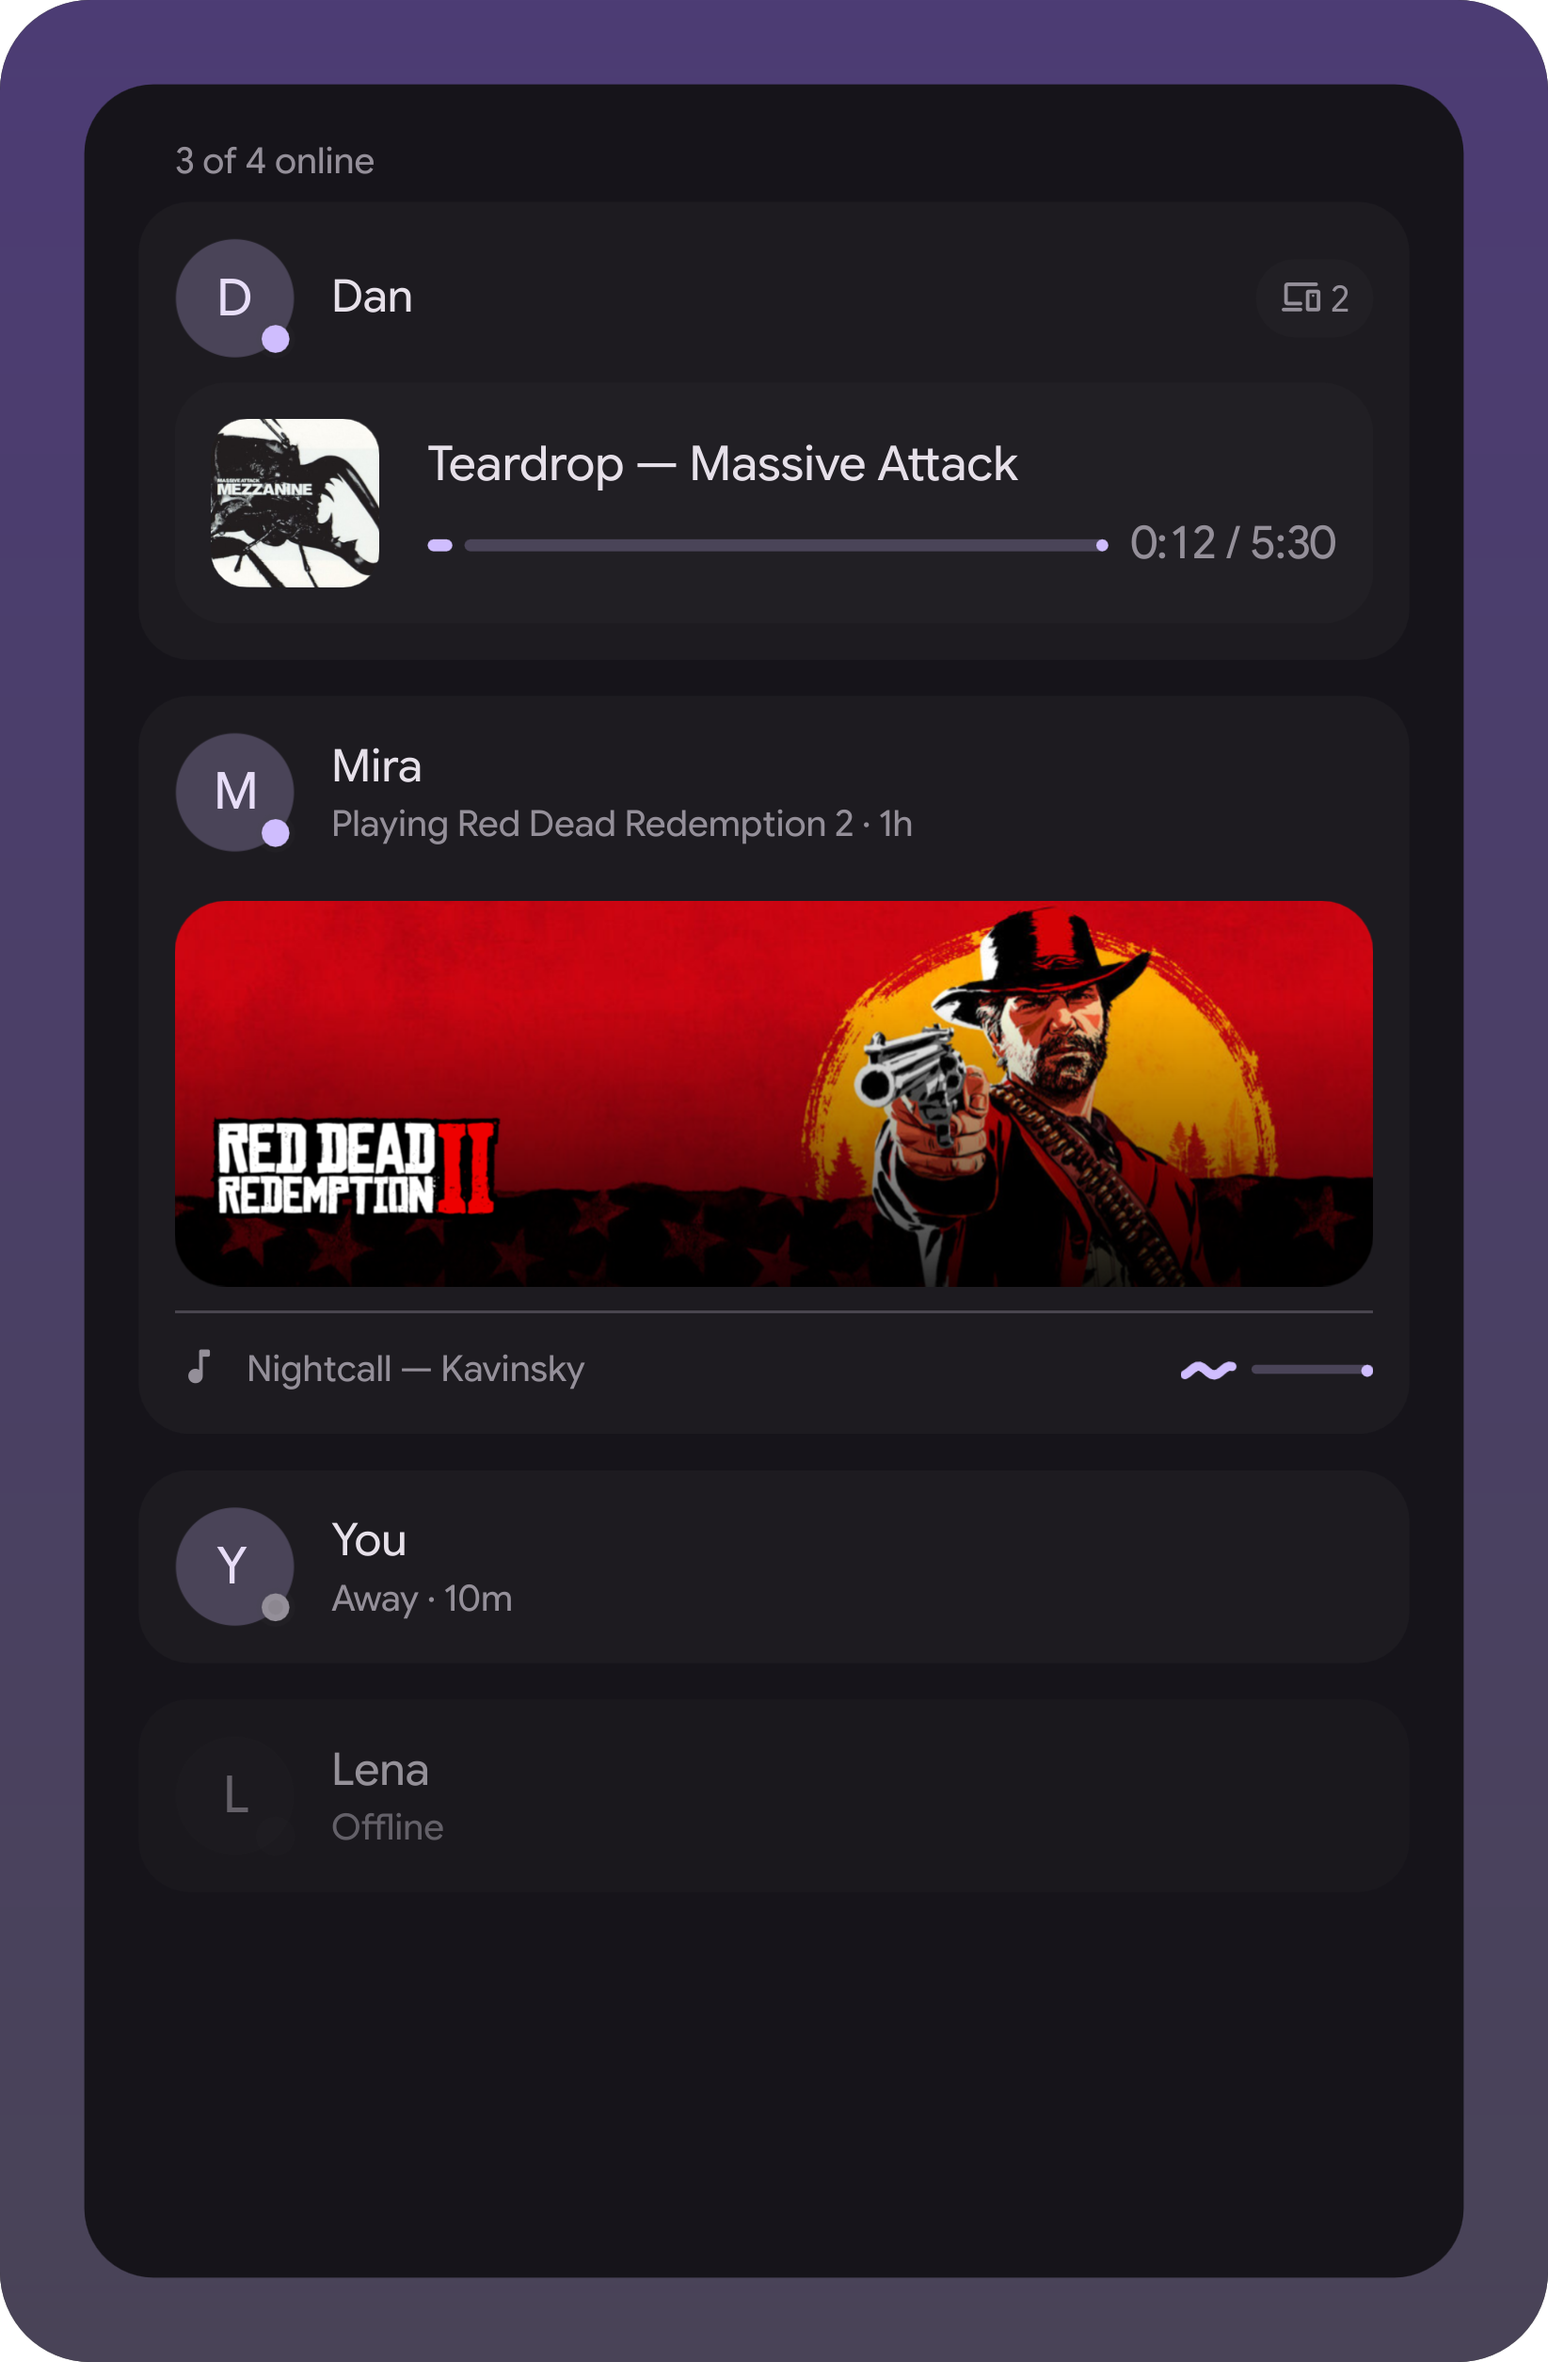
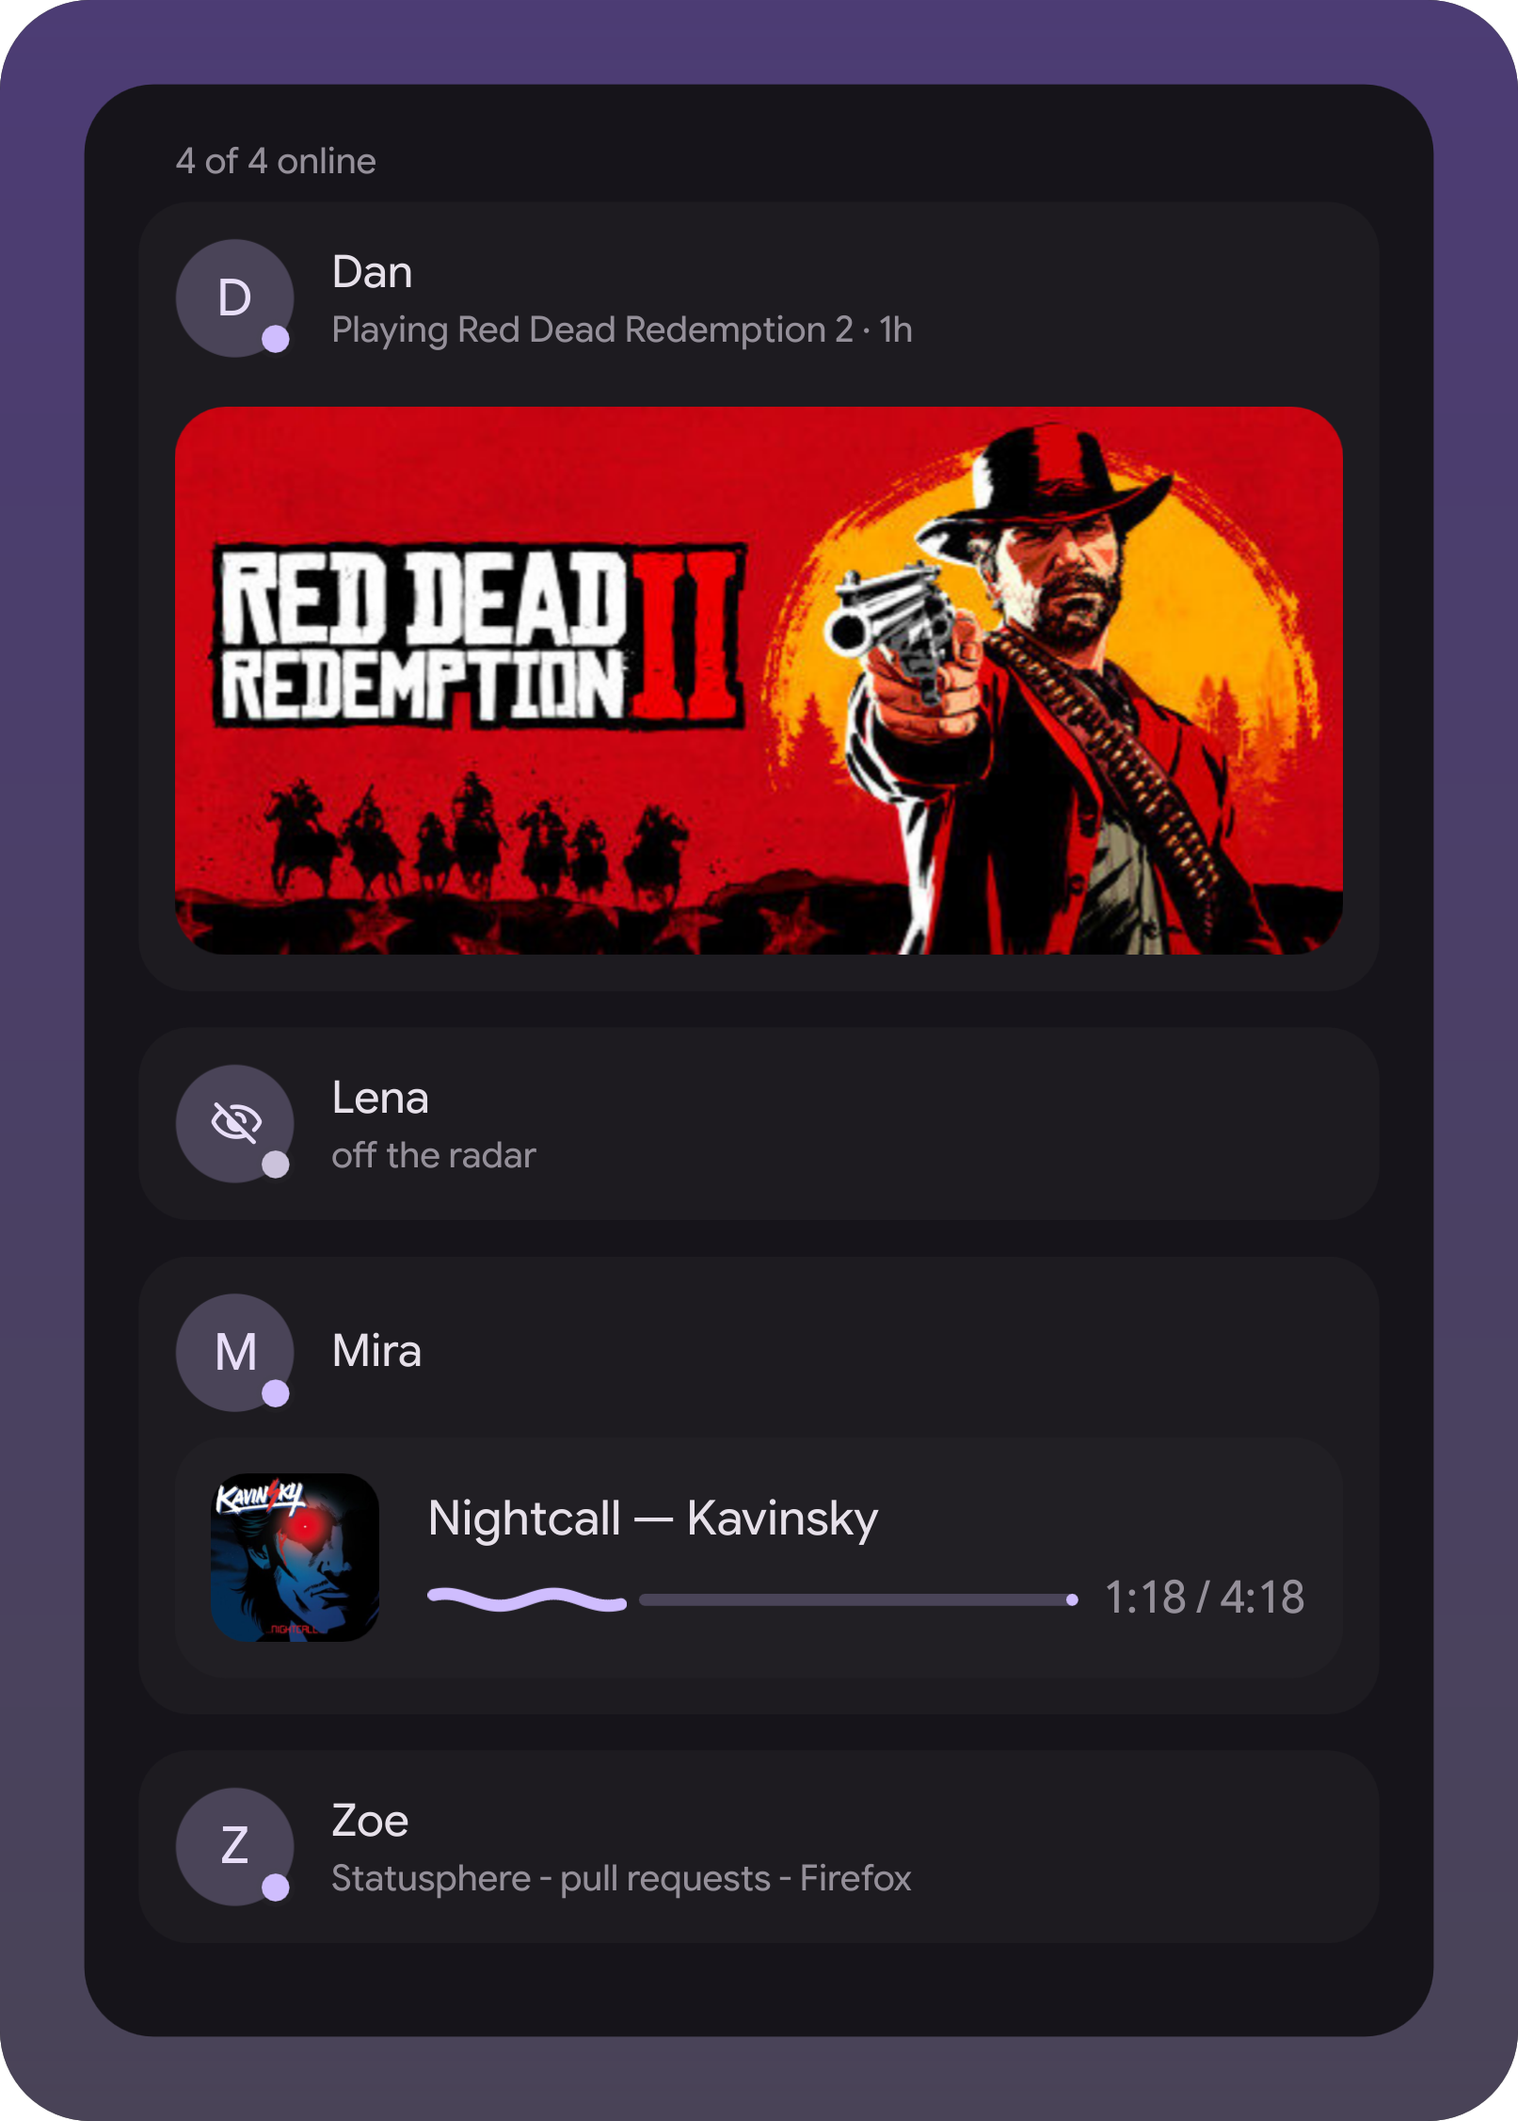
docs: readme swaps in a friend-card shot, room keeps one status each
shots.txt now renders three pictures - the plain room (DemoRoomSimple),
the settings row-pack picker, and Nyx's night owl card close up
(DemoFriendCard). Mira's row names discord next to her track, matching
the game/window/incognito friends. The settings shot's test tile reads
focused instead of the debug echo hello, and checks() follows it.

diff --git a/demo/DemoRoomSimple.qml b/demo/DemoRoomSimple.qml
@@ -1,0 +1,106 @@
+//@ probe statusphere -g 420x620 -s 1500
+/**
+ * The room at its plainest, no owner-built layouts at all: one friend playing
+ * music with the app she's in named too, one just playing a game, one with
+ * nothing more than the window she's in - the built-in row for each case,
+ * not a pack - and one gone incognito, so the room says only that she's
+ * hidden.
+ */
+import ".."
+import qs.modules.common
+import QtQuick
+import QtQuick.Layouts
+
+Item {
+    id: root
+    readonly property int now: 1780000000
+
+    function cover(file) {
+        return String(Qt.resolvedUrl(`covers/${file}`));
+    }
+
+    readonly property var room: ({
+            "members": [
+                {
+                    "account_id": "acc-mira",
+                    "device_id": "dev-mira",
+                    "device_name": "workstation",
+                    "account_name": "Mira",
+                    "last_seen": root.now,
+                    "active_app": "discord",
+                    "spotify_status": "playing",
+                    "spotify_track": "Nightcall",
+                    "spotify_artist": "Kavinsky",
+                    "spotify_position": 78,
+                    "spotify_length": 258,
+                    "spotify_art_url": root.cover("nightcall.jpg")
+                },
+                {
+                    "account_id": "acc-dan",
+                    "device_id": "dev-dan",
+                    "device_name": "tower",
+                    "account_name": "Dan",
+                    "last_seen": root.now,
+                    "game_status": "playing",
+                    "game_name": "Red Dead Redemption 2",
+                    "game_display": "Red Dead Redemption 2",
+                    "game_header_url": root.cover("rdr2-header.jpg"),
+                    "game_session_seconds": 5040
+                },
+                {
+                    "account_id": "acc-zoe",
+                    "device_id": "dev-zoe",
+                    "device_name": "laptop",
+                    "account_name": "Zoe",
+                    "last_seen": root.now,
+                    "active_window": "Statusphere - pull requests - Firefox"
+                },
+                {
+                    "account_id": "acc-lena",
+                    "device_id": "dev-lena",
+                    "device_name": "phone",
+                    "account_name": "Lena",
+                    "last_seen": root.now,
+                    "active_window": "Messages",
+                    "_incognito": true
+                }
+            ],
+            "photos": []
+        })
+
+    function checks() {
+        return [
+            {
+                "name": "the room is what was fed in",
+                "got": [Statusphere.memberCount, Statusphere.onlineCount],
+                "want": [4, 4]
+            },
+            {
+                "name": "only the music friend shows a music widget",
+                "got": ["acc-mira", "acc-dan", "acc-zoe", "acc-lena"].map(id => Statusphere.musicDevices(Statusphere.accountsById[id]).length > 0),
+                "want": [true, false, false, false]
+            },
+            {
+                "name": "only the game friend shows a game widget",
+                "got": ["acc-mira", "acc-dan", "acc-zoe", "acc-lena"].map(id => Statusphere.gameDevices(Statusphere.accountsById[id]).length > 0),
+                "want": [false, true, false, false]
+            },
+            {
+                "name": "the plain friend's status line names her window, not a bare Online",
+                "got": Statusphere.statusFor(Statusphere.accountsById["acc-zoe"]),
+                "want": "Statusphere - pull requests - Firefox"
+            },
+            {
+                "name": "an incognito friend says only that she's hidden, window and all",
+                "got": [Statusphere.hiddenFor(Statusphere.accountsById["acc-lena"]), Statusphere.statusFor(Statusphere.accountsById["acc-lena"]).includes("Messages")],
+                "want": [true, false]
+            }
+        ];
+    }
+
+    Component.onCompleted: Statusphere.ingest(JSON.stringify(root.room))
+
+    PresenceTab {
+        anchors.fill: parent
+    }
+}

diff --git a/demo/DemoFriendCard.qml b/demo/DemoFriendCard.qml
@@ -1,0 +1,108 @@
+//@ probe statusphere -g 420x480 -s 1500
+/**
+ * One friend on the night owl pack, detail card open: a game banner, the
+ * track as a wave line, the app, uptime, night weather, moon phase, a local
+ * clock and sunrise/sunset. Row left empty (`row: []`) so nothing repeats
+ * between the row and the detail card below it.
+ */
+import ".."
+import "../CardLayouts.js" as CardLayouts
+import qs.modules.common
+import QtQuick
+import QtQuick.Layouts
+
+Item {
+    id: root
+    readonly property int now: 1780000000
+
+    function cover(file) {
+        return String(Qt.resolvedUrl(`covers/${file}`));
+    }
+
+    readonly property var room: ({
+            "members": [
+                {
+                    "account_id": "acc-nyx",
+                    "device_id": "dev-nyx",
+                    "device_name": "tower",
+                    "account_name": "Nyx",
+                    "last_seen": root.now,
+                    "_layout": {
+                        "updated_at": root.now,
+                        "row": [],
+                        "detail": CardLayouts.packs.detail.nightOwl
+                    },
+                    "spotify_status": "playing",
+                    "spotify_track": "Turn Off the Lights",
+                    "spotify_artist": "Nite Jewel",
+                    "spotify_position": 40,
+                    "spotify_length": 210,
+                    "spotify_art_url": root.cover("nightcall.jpg"),
+                    "game_status": "playing",
+                    "game_name": "Cyberpunk 2077",
+                    "game_display": "Cyberpunk 2077",
+                    "game_header_url": root.cover("cp2077-header.jpg"),
+                    "game_session_seconds": 7200,
+                    "uptime_hours": 27,
+                    "active_app": "mpv",
+                    "custom_fields": ["local_time", "weather", "moon", "sun"],
+                    "weather": "7° Clear",
+                    "local_time": "03:12",
+                    "moon": "🌔",
+                    "sun": "06:45 · 18:52"
+                }
+            ],
+            "photos": []
+        })
+
+    function findAll(item, pred, out) {
+        if (pred(item))
+            out.push(item);
+        for (const c of item.children ?? [])
+            root.findAll(c, pred, out);
+        return out;
+    }
+
+    function checks() {
+        const grids = root.findAll(root, it => it.rowsUsed !== undefined && it.placed !== undefined, []);
+        const packedSolid = grids.every(g => g.placed.reduce((sum, p) => sum + p.cols * p.rows, 0) === g.rowsUsed * g.columns);
+
+        return [
+            {
+                "name": "the night owl detail pack owns detail, row stays empty",
+                "got": ["row", "detail"].map(surface => Statusphere.ownsSurface(Statusphere.accountsById["acc-nyx"], surface)),
+                "want": [true, true]
+            },
+            {
+                "name": "an empty row draws no row grid",
+                "got": Statusphere.surfaceTiles(Statusphere.accountsById["acc-nyx"], "row").length,
+                "want": 0
+            },
+            {
+                "name": "no pack tile is left with an empty grid cell",
+                "got": grids.length > 0 && packedSolid,
+                "want": true
+            }
+        ];
+    }
+
+    Component.onCompleted: Statusphere.ingest(JSON.stringify(root.room))
+
+    ColumnLayout {
+        anchors.fill: parent
+        anchors.margins: 16
+        spacing: 16
+
+        PresenceRow {
+            id: nyxRow
+            Layout.fillWidth: true
+            modelData: "acc-nyx"
+            showDetails: true
+        }
+
+        Item {
+            Layout.fillWidth: true
+            Layout.fillHeight: true
+        }
+    }
+}

diff --git a/demo/DemoCardEditor.qml b/demo/DemoCardEditor.qml
@@ -351,7 +351,7 @@ Item {
                 root.editor.selectedIndex = root.tileIndex("weather");
                 root.note("handEditedWeather", [root.sheet.kindId, root.answerField()?.text ?? null]);
                 root.editor.selectTile(root.tileIndex("output"));
-                root.commitText(root.answerField(), "echo hello");
+                root.commitText(root.answerField(), "echo focused");
                 root.sheet.runTest();
             }
         }
@@ -361,8 +361,8 @@ Item {
         ScriptAction {
             script: {
                 root.note("customAfterCommand", root.readJson(customView));
-                root.note("testOutput", root.visibleTexts(root.sheet).includes("hello"));
-                root.note("previewShowsTested", root.visibleTexts(root.first(root.editor, it => it.reorderable === true)).includes("hello"));
+                root.note("testOutput", root.visibleTexts(root.sheet).includes("focused"));
+                root.note("previewShowsTested", root.visibleTexts(root.first(root.editor, it => it.reorderable === true)).includes("focused"));
                 root.editor.removeTileAt(root.tileIndex("weather"));
                 root.editor.removeTileAt(root.tileIndex(root.handField));
                 root.editor.reorderTile(0, 2);
@@ -728,7 +728,7 @@ Item {
                 "name": "Your command writes its cmd with a repeat_seconds",
                 "got": s.customAfterCommand?.output,
                 "want": {
-                    "cmd": "echo hello",
+                    "cmd": "echo focused",
                     "repeat_seconds": 60
                 }
             },

diff --git a/README.md b/README.md
@@ -5,9 +5,9 @@ shared. Client for [statusphere](https://github.com/MAX1T1A/statusphere), and th
 widget living outside the shell tree - a trial run of the extensions mechanism in the
 [illogical-impulse extensions fork](https://github.com/Berupor/dots-hyprland-extensions).
 
-| The room | Its settings |
-|---|---|
-| ![The room tab](docs/room.png) | ![Settings](docs/StatusphereSettings.png) |
+| The room | Its settings | One card, close up |
+|---|---|---|
+| ![Music, a game, a window, one gone incognito](docs/room.png) | ![Picking a pack](docs/StatusphereSettings.png) | ![A night owl's card](docs/friendCard.png) |
 
 Nobody in that room is real: the scenes in `demo/` feed the widget made-up members
 through the same `ingest` the cli talks to.
